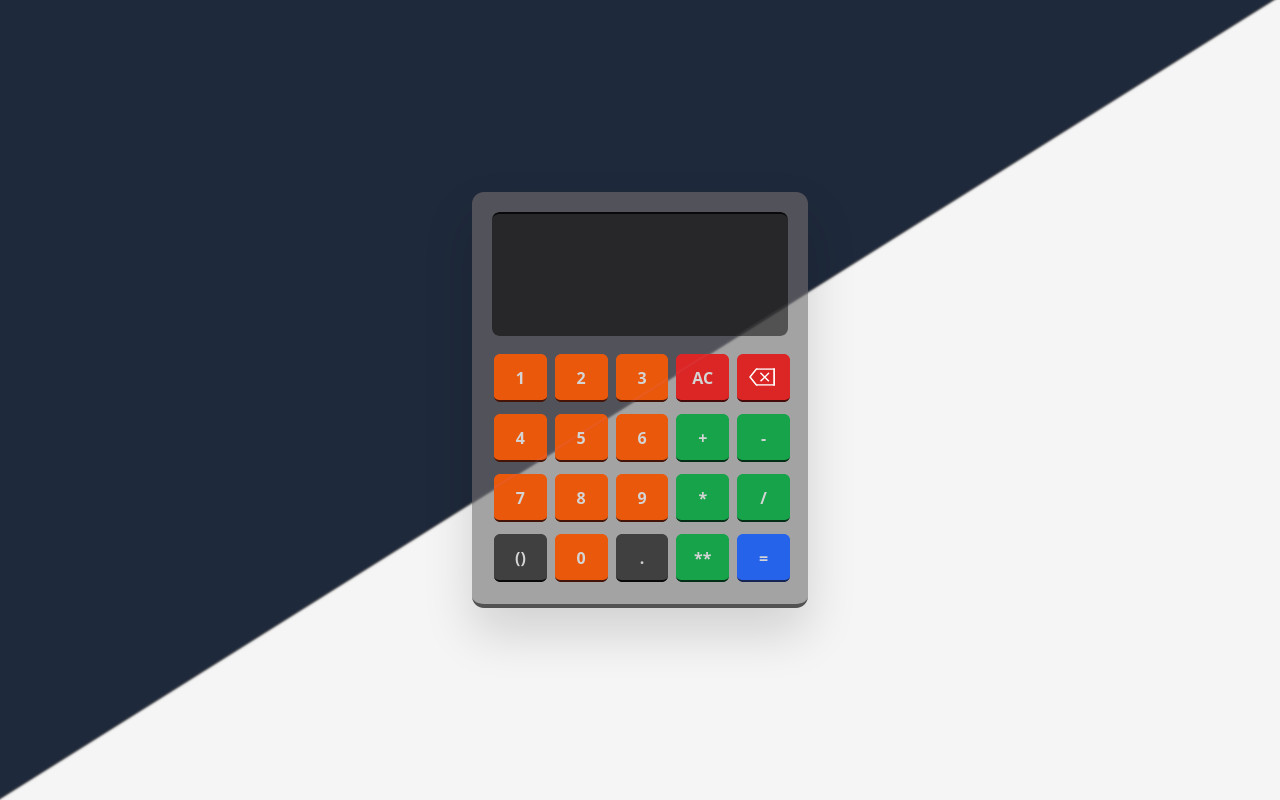
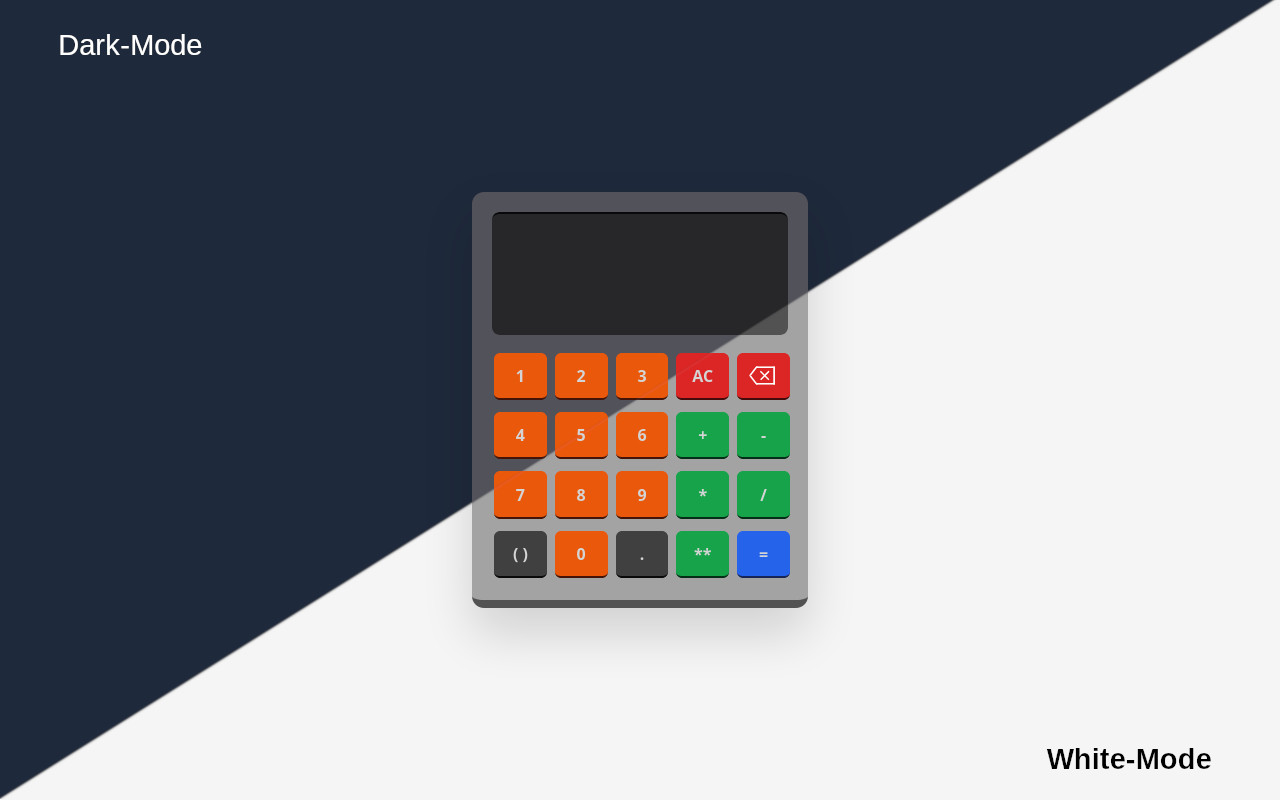
Atualização da programação da calculadora e correção de erros

diff --git a/index.html b/index.html
@@ -5,36 +5,45 @@
   <meta name="viewport" content="width=device-width, initial-scale=1.0">
   <link rel="stylesheet" href="style.css">
   <script src="index.js" defer></script>
+  <style>
+  
+.del-btn {
+  background-image: url('svg/delete-white.svg');
+  background-repeat: no-repeat;
+  background-position: 40%;
+  background-size: 70%;
+}
+</style>
   <title>Calculadora 2.0</title>
 </head>
-<body class="h-screen bg-neutral-100 dark:bg-slate-800 flex justify-center items-center">
-  <main class="drop-shadow-2xl m-2 p-5 bg-neutral-400 dark:bg-zinc-600 rounded-xl border-b-4 border-neutral-600 dark:border-zinc-800" style="width:21rem;height:26rem;">
+<body class="h-svh bg-neutral-100 dark:bg-slate-800 flex justify-center items-center">
+  <main class="drop-shadow-2xl m-2 p-5 bg-neutral-400 dark:bg-zinc-600 rounded-t-xl rounded-b-xl border-b-8 border-neutral-600 dark:border-zinc-800" style="width:21rem;height:26rem;">
     <section id="display" class="whitespace-nowrap overflow-x-hidden px-4 w-full h-1/3 bg-neutral-600 dark:bg-zinc-800 rounded-lg border-t-2 border-neutral-700 dark:border-zinc-950 text-neutral-200 text-4xl flex items-center justify-end"></section>
     
     <section class="pt-4 h-4/6 grid grid-cols-5 grid-rows-4 gap-2">
       <!-- Numbers -->
-      <button class="btn-orange col-start-2 col-end-3 row-start-4 row-end-5" onclick="inputFunction('0')">0</button>
-      <button class="btn-orange col-start-1 col-end-2 row-start-1 row-end-2" onclick="inputFunction('1')">1</button>
-      <button class="btn-orange col-start-2 col-end-3 row-start-1 row-end-2" onclick="inputFunction('2')">2</button>
-      <button class="btn-orange col-start-3 col-end-4 row-start-1 row-end-2" onclick="inputFunction('3')">3</button>
-      <button class="btn-orange col-start-1 col-end-2 row-start-2 row-end-3" onclick="inputFunction('4')">4</button>
-      <button class="btn-orange col-start-2 col-end-3 row-start-2 row-end-3" onclick="inputFunction('5')">5</button>
-      <button class="btn-orange col-start-3 col-end-4 row-start-2 row-end-3" onclick="inputFunction('6')">6</button>
-      <button class="btn-orange col-start-1 col-end-2 row-start-3 row-end-4" onclick="inputFunction('7')">7</button>
-      <button class="btn-orange col-start-2 col-end-3 row-start-3 row-end-4" onclick="inputFunction('8')">8</button>
-      <button class="btn-orange col-start-3 col-end-4 row-start-3 row-end-4" onclick="inputFunction('9')">9</button>
+      <button class="btn-orange col-start-2 col-end-3 row-start-4 row-end-5" onclick="validateInput('0')">0</button>
+      <button class="btn-orange col-start-1 col-end-2 row-start-1 row-end-2" onclick="validateInput('1')">1</button>
+      <button class="btn-orange col-start-2 col-end-3 row-start-1 row-end-2" onclick="validateInput('2')">2</button>
+      <button class="btn-orange col-start-3 col-end-4 row-start-1 row-end-2" onclick="validateInput('3')">3</button>
+      <button class="btn-orange col-start-1 col-end-2 row-start-2 row-end-3" onclick="validateInput('4')">4</button>
+      <button class="btn-orange col-start-2 col-end-3 row-start-2 row-end-3" onclick="validateInput('5')">5</button>
+      <button class="btn-orange col-start-3 col-end-4 row-start-2 row-end-3" onclick="validateInput('6')">6</button>
+      <button class="btn-orange col-start-1 col-end-2 row-start-3 row-end-4" onclick="validateInput('7')">7</button>
+      <button class="btn-orange col-start-2 col-end-3 row-start-3 row-end-4" onclick="validateInput('8')">8</button>
+      <button class="btn-orange col-start-3 col-end-4 row-start-3 row-end-4" onclick="validateInput('9')">9</button>
       <!-- Operators -->
-      <button class="btn-green col-start-4 col-end-5 row-start-2 row-end-3" onclick="inputFunction('+')">+</button>
-      <button class="btn-green col-start-5 col-end-6 row-start-2 row-end-3" onclick="inputFunction('-')">-</button>
-      <button class="btn-green col-start-4 col-end-5 row-start-3 row-end-4" onclick="inputFunction('*')">*</button>
-      <button class="btn-green col-start-5 col-end-6 row-start-3 row-end-4" onclick="inputFunction('/')">/</button>
-      <button class="btn-green col-start-4 col-end-5 row-start-4 row-end-5" onclick="inputFunction('**')">**</button>
+      <button class="btn-green col-start-4 col-end-5 row-start-2 row-end-3" onclick="validateInput('+')">+</button>
+      <button class="btn-green col-start-5 col-end-6 row-start-2 row-end-3" onclick="validateInput('-')">-</button>
+      <button class="btn-green col-start-4 col-end-5 row-start-3 row-end-4" onclick="validateInput('*')">*</button>
+      <button class="btn-green col-start-5 col-end-6 row-start-3 row-end-4" onclick="validateInput('/')">/</button>
+      <button class="btn-green col-start-4 col-end-5 row-start-4 row-end-5" onclick="validateInput('**')">**</button>
       <!-- Controls -->
-      <button class="btn-red col-start-4 col-end-5 row-start-1 row-end-2" onclick="inputFunction('AC')">AC</button>
-      <button class="del-btn btn-red col-start-5 col-end-6 row-start-1 row-end-2" onclick="inputFunction('DEL')"></button>
-      <button class="btn-blue col-start-5 col-end-6 row-start-4 row-end-5" onclick="calculate()">=</button>
-      <button class="btn-gray col-start-1 col-end-2 row-start-4 row-end-5" id="brackets" onclick="inputFunction('(')">()</button>
-      <button class="btn-gray col-start-3 col-end-4 row-start-4 row-end-5" onclick="inputFunction('.')">.</button>
+      <button class="btn-red col-start-4 col-end-5 row-start-1 row-end-2" onclick="validateInput('AC')">AC</button>
+      <button class="del-btn btn-red col-start-5 col-end-6 row-start-1 row-end-2" onclick="validateInput('DEL')"></button>
+      <button class="btn-blue col-start-5 col-end-6 row-start-4 row-end-5" onclick="getAndcalc()">=</button>
+      <button class="btn-gray col-start-1 col-end-2 row-start-4 row-end-5" id="brackets" onclick="validateInput('(')">( )</button>
+      <button class="btn-gray col-start-3 col-end-4 row-start-4 row-end-5" onclick="validateInput('.')">.</button>
     </section>
   </main>
 </body>

diff --git a/index.js b/index.js
@@ -1,51 +1,128 @@
-function inputFunction(n) {
-  const display = document.getElementById('display');
+function validateInput(n, order) {
+  let cmd = 0;
   const input = n;
   const lastInput = display.innerHTML.slice(display.innerHTML.length - 1);
-  const regExp = /[+*/.-]/;
+  const regExp = /[+*/.-]/
+  const operatorsExp1 = /[+-]/;
+  const operatorsExp2 = /[/*]/;
   const bracketsBtn = document.getElementById('brackets');
 
+  if (input == '(') {
+    bracketsBtn.setAttribute("onclick", "validateInput(')')")
+  } else if (input == ')') {
+    bracketsBtn.setAttribute("onclick", "validateInput('(')")
+  }
+  
+  if (order == 1) {
+    cmd = 1
+    displayInput(cmd, input)
+    resetAll()
+    return;
+  }
+
   if (input == 'DEL') {
+    cmd = 'DEL'
+    displayInput(cmd)
+    return;
+  }
+  if (input == 'AC') {
+    cmd = 'AC'
+    displayInput(cmd)
+    return;
+  }
+  if ((lastInput.match(operatorsExp2) && input.match(operatorsExp2)) || (lastInput.match(operatorsExp1) && input.match(operatorsExp1))) {
+    cmd = 3
+    displayInput(cmd, input)
+    return;
+  }
+  if ((lastInput.match(operatorsExp1) && input.match(operatorsExp2)) ) {
+    return;
+  }
+  if ((input == lastInput && lastInput.match(regExp)) || (lastInput == '(' && input == ')')) {
+    return;
+  }
+  displayInput(cmd, input)
+}
+
+function displayInput(cmd, input) {
+  const display = document.getElementById('display');
+
+  if (cmd == 'DEL') {
     display.innerHTML = display.innerHTML.slice(0, display.innerHTML.length - 1);
     return;
-  } else if (input == 'AC') {
+  } else if (cmd == 'AC') {
     display.innerHTML = '';
     return;
-  } else if (input == lastInput && lastInput.match(regExp)) {
+  } else if (cmd == 1) {
+    display.innerHTML = input;
     return;
-  } else if (Boolean(lastInput.match(regExp)) == true && input.match(regExp)) {
+  } else if (cmd == 3) {
     display.innerHTML = display.innerHTML.slice(0, display.innerHTML.length - 1);
     display.innerHTML += input;
     return;
-  } 
-  
-  if (input == '(' ) {
-    bracketsBtn.setAttribute("onclick", "inputFunction(')')")
-  } else if (input == ')') {
-    bracketsBtn.setAttribute("onclick", "inputFunction('(')")
   }
-  
-  display.innerHTML  += input;
+  display.innerHTML += input;
 }
 
-function calculate() {
-  const operation = document.getElementById('display').innerHTML;
+function getAndcalc() {
+  let operation = document.getElementById('display').innerHTML;
+  let part1, part2;
+  const regExp = /[1234567890]/
+  const openBracket = operation.search(/[(]/);
+  const beforeBracket = openBracket - 1;
+
+  if (Boolean(operation.slice(openBracket - 1, openBracket).match(regExp)) == true) {
+    part1 = operation.slice(0, beforeBracket + 1);
+    part2 = operation.slice(beforeBracket + 1);
+    operation = part1 + '*' + part2;
+  }
+
   const calc = new Function('return ' + operation)();
-    
-   if (calc.toString().length > 18) {
-     display.innerHTML = 'I cant display it!'
-     setTimeout(() => display.innerHTML = '', 2000)
-     return;
-   }
-   
-   display.innerHTML = calc;
+
+  if (calc.toString().length > 18) {
+    display.innerHTML = 'I cant display it!'
+    setTimeout(() => display.innerHTML = '', 2000)
+    return;
+  }
+  
+  display.innerHTML = calc;
+  setOrder()
+}
+
+function setOrder() {
+  for (let i = 0; i < 10; i++) {
+    document.getElementsByTagName('button')[i].setAttribute("onclick", `validateInput('${i}', 1)`)
+  }
+}
+
+function resetAll() {
+  for (let i = 0; i < 10; i++) {
+    document.getElementsByTagName('button')[i].setAttribute("onclick", `validateInput('${i}')`)
+  }
 }
 
 window.addEventListener('keydown', e => {
   const key = e.key;
   const regExp = /[1234567890+-/*.]/;
+  let input = key.toString()
+  console.log(key)
   
+  if (key == 'Escape') {
+    input = 'AC'
+    validateInput(input)
+    return;
+  }
+  if (key == 'Backspace') {
+    input = 'DEL';
+    setOrder()
+    validateInput(input)
+  }
+  if (key == 'Enter') {
+    getAndcalc()
+    return;
+  }
   if (key.match(regExp) && key.length == 1) {
-    inputFunction(key.toString())
+    input = key.toString()
+    validateInput(input)
   } 
 })

diff --git a/style.css b/style.css
@@ -771,8 +771,8 @@ video {
   height: 66.666667%;
 }
 
-.h-screen {
-  height: 100vh;
+.h-svh {
+  height: 100svh;
 }
 
 .w-full {
@@ -803,10 +803,6 @@ video {
   gap: 0.5rem;
 }
 
-.overflow-hidden {
-  overflow: hidden;
-}
-
 .overflow-x-hidden {
   overflow-x: hidden;
 }
@@ -823,12 +819,46 @@ video {
   border-radius: 0.75rem;
 }
 
+.rounded-t-xl {
+  border-top-left-radius: 0.75rem;
+  border-top-right-radius: 0.75rem;
+}
+
+.rounded-b-sm {
+  border-bottom-right-radius: 0.125rem;
+  border-bottom-left-radius: 0.125rem;
+}
+
+.rounded-b-md {
+  border-bottom-right-radius: 0.375rem;
+  border-bottom-left-radius: 0.375rem;
+}
+
+.rounded-b-3xl {
+  border-bottom-right-radius: 1.5rem;
+  border-bottom-left-radius: 1.5rem;
+}
+
+.rounded-b-lg {
+  border-bottom-right-radius: 0.5rem;
+  border-bottom-left-radius: 0.5rem;
+}
+
+.rounded-b-xl {
+  border-bottom-right-radius: 0.75rem;
+  border-bottom-left-radius: 0.75rem;
+}
+
 .border-b-4 {
   border-bottom-width: 4px;
 }
 
 .border-t-2 {
   border-top-width: 2px;
+}
+
+.border-b-8 {
+  border-bottom-width: 8px;
 }
 
 .border-neutral-600 {
@@ -856,11 +886,6 @@ video {
   background-color: rgb(82 82 82 / var(--tw-bg-opacity));
 }
 
-.bg-neutral-200 {
-  --tw-bg-opacity: 1;
-  background-color: rgb(229 229 229 / var(--tw-bg-opacity));
-}
-
 .p-5 {
   padding: 1.25rem;
 }
@@ -872,11 +897,6 @@ video {
 
 .pt-4 {
   padding-top: 1rem;
-}
-
-.text-5xl {
-  font-size: 3rem;
-  line-height: 1;
 }
 
 .text-4xl {
@@ -919,11 +939,4 @@ video {
     --tw-bg-opacity: 1;
     background-color: rgb(39 39 42 / var(--tw-bg-opacity));
   }
-}
-
-.del-btn {
-  background-image: url('svg/delete-white.svg');
-  background-repeat: no-repeat;
-  background-position: 40%;
-  background-size: 70%;
 }

diff --git a/README.md b/README.md
@@ -2,15 +2,16 @@
 
 ## Versão 2.0
 
-![](./fotos/preview-ver2.jpg)
+![Preview Versão 2](./fotos/preview-ver2.jpg)
 
 [Calculadora (versão 2.0)](https://corradivm.github.io/calculadora-simples/)
 
 ### Melhorias
 
 - Estilo remasterizado
-- Tema se adapta automaticamente de acordo com as preferências do usuário
-- Código JS otimizado e com sistema de validação completo
+- Tema se adapta automaticamente de acordo com as preferências do usuário (Não funciona em todos os navegadores)
+- Código JS otimizado e com sistema de validação bem completo
+- Suporte a operações como: `5 + 5(1 + 2)`
 
 ### Ferramentas utilizadas:
 
@@ -21,7 +22,7 @@
 
 ## Versão 1.0
 
-![](./fotos/preview-ver1.png)
+![Preview Versão 1](./fotos/preview-ver1.png)
 
 [Calculadora (versão 1.0)](https://corradivm.github.io/calculadora-simples/1.0)
 
@@ -29,5 +30,4 @@
 
 - HTML
 - CSS
-- Tailwind CSS
 - JavaScript
